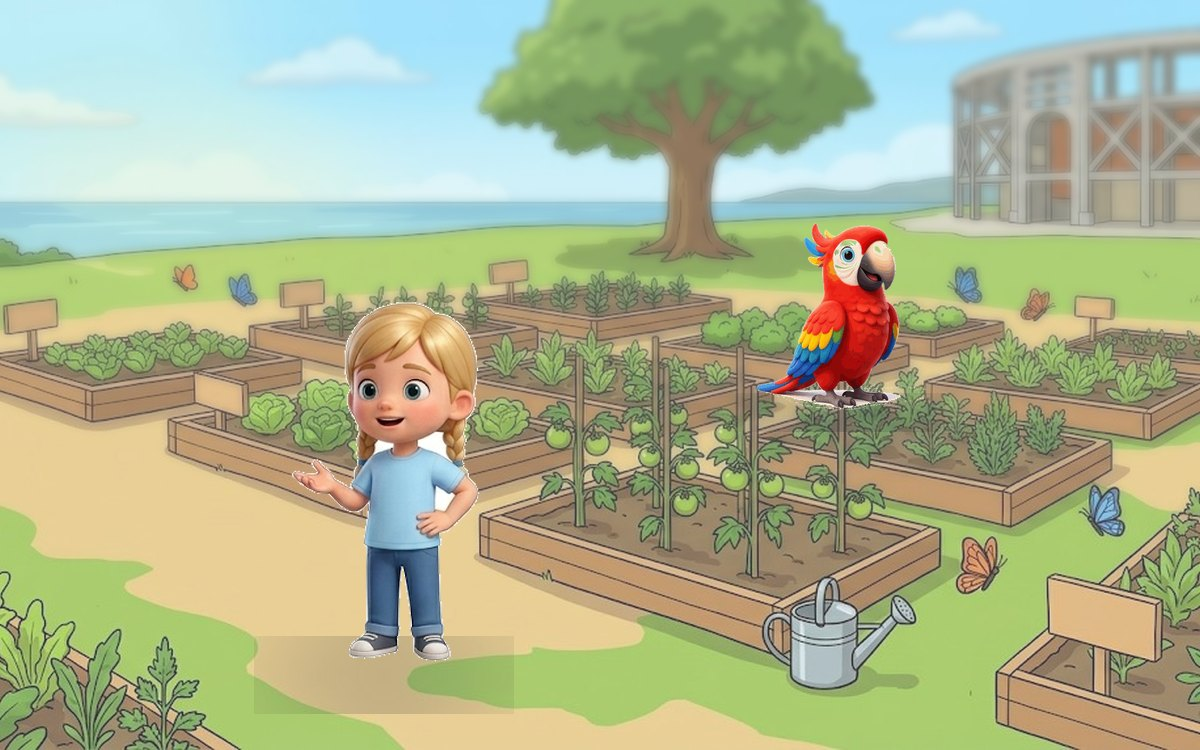
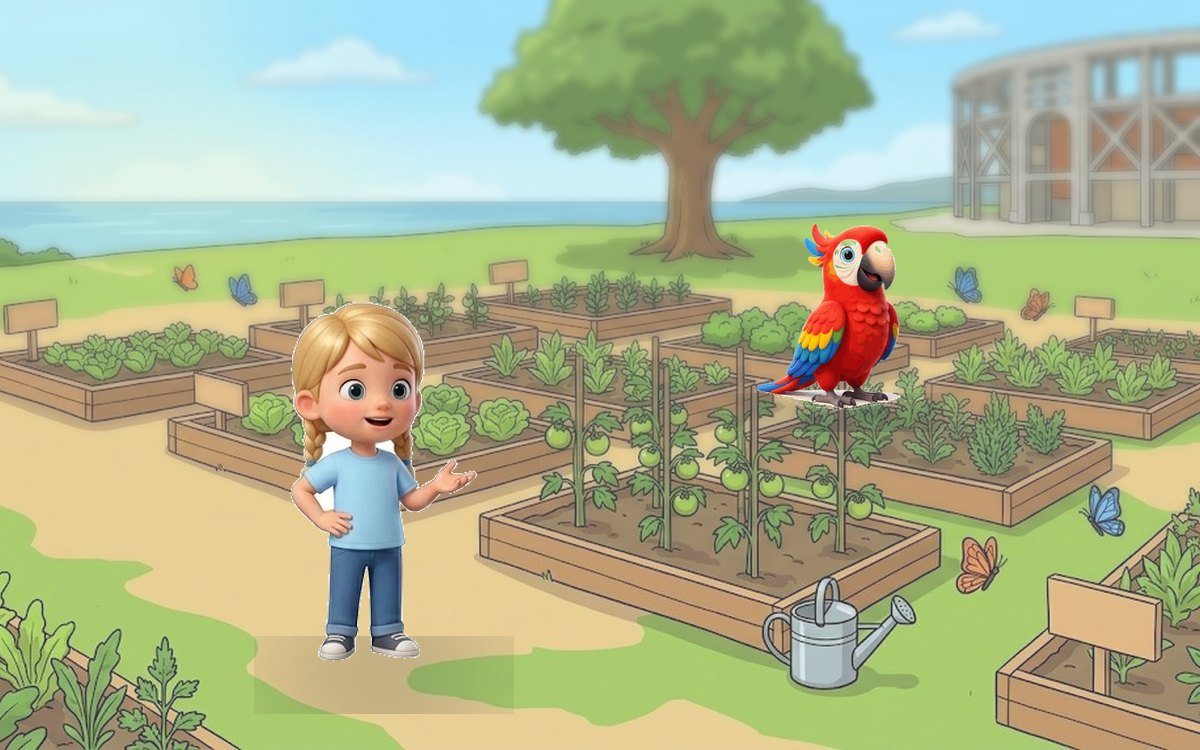
Fun for Nordic al dia: la conversacion de Pip y las orientaciones corregidas

Changed region(s): [[0.2467, 0.3987, 0.4008, 0.8893]]

diff --git a/nis-fun/engine/orientacion.js b/nis-fun/engine/orientacion.js
@@ -11,6 +11,13 @@
  * entra: voltear una figura frontal no arregla nada y puede estropear una
  * asimetria buscada (una mochila, un objeto en una mano).
  *
+ * Cuidado con la pose 3: no es la misma en todos. Astrid, Tomas, Erik,
+ * Valentina y Kili abren LAS DOS manos y son simetricos; Freya, Nico,
+ * Mateo, Ingrid, Diego, Maya y Sofia extienden UNA, y esa si apunta a un
+ * lado. Se catalogo mal la primera vez -daba igual a todos- y Freya acabo
+ * diciendo "Hello, bird! What is your name?" mirando al lado contrario de
+ * donde estaba Pip.
+ *
  * Quien lo usa da vuelta la imagen con scaleX(-1) cuando la direccion no
  * apunta al contenido. No hay arte nuevo: es el mismo PNG reflejado.
  *
@@ -19,8 +26,8 @@
  */
 window.ORIENTACION = {
   // Starters: los cuatro ninos comparten set de poses
-  'starters/freya':  { 2: 'izq', 7: 'der' },
-  'starters/nico':   { 2: 'izq', 7: 'der' },
+  'starters/freya':  { 2: 'izq', 3: 'izq', 7: 'der' },
+  'starters/nico':   { 2: 'izq', 3: 'izq', 7: 'der' },
   'starters/astrid': { 2: 'izq', 7: 'der' },
   'starters/tomas':  { 2: 'izq', 7: 'der' },
   // Pip esta girado a la izquierda en casi todas
@@ -28,13 +35,13 @@ window.ORIENTACION = {
 
   'movers/erik':      { 7: 'der' },
   'movers/valentina': { 7: 'der' },
-  'movers/sofia':     { 7: 'der' },
-  'movers/mateo':     { 2: 'izq', 7: 'der' },
+  'movers/sofia':     { 3: 'izq', 7: 'der' },
+  'movers/mateo':     { 2: 'izq', 3: 'izq', 7: 'der' },
   'movers/luna':      { 2: 'der' },
 
-  'flyers/ingrid': { 4: 'der', 7: 'izq' },
-  'flyers/maya':   { 7: 'izq' },
-  'flyers/oliver': { 7: 'izq' },
+  'flyers/ingrid': { 3: 'izq', 4: 'der', 7: 'izq' },
+  'flyers/maya':   { 3: 'izq', 7: 'izq' },
+  'flyers/oliver': { 3: 'der', 7: 'izq' },
   'flyers/kili':   { 2: 'izq' },
 };
 

diff --git a/nis-fun/engine/index.html b/nis-fun/engine/index.html
@@ -485,7 +485,7 @@ const AUDIO_V = '2026-08-27';   // sube al grabar audio nuevo
    el 27-ago-2026 el alumno miraba el zoo vacio y la fachada del colegio
    donde la historia dice cocina del faro. Con la version en la URL, cada
    publicacion se ve sola y no hay que vaciar la cache a mano. */
-const ART_V = '2026-08-27c';    // sube al cambiar laminas o dibujos
+const ART_V = '2026-08-28';    // sube al cambiar laminas o dibujos
 // banner.js se carga antes que este script y tambien pinta personajes:
 // se comparte por window para no depender del orden de carga.
 window.ART_V = ART_V;

diff --git a/nis-fun/readers/index.html b/nis-fun/readers/index.html
@@ -115,7 +115,7 @@
 /* Los dibujos de los cuentos se cachean siete dias en el borde, asi que
    una pagina rehecha seguia sin verse. Con la version en la URL cada
    publicacion se ve sola; se sube al regenerar las ilustraciones. */
-const ART_V = '2026-08-27c';
+const ART_V = '2026-08-28';
 
 const HOME = (() => {
   const CLAVE = 'nlr-home';
